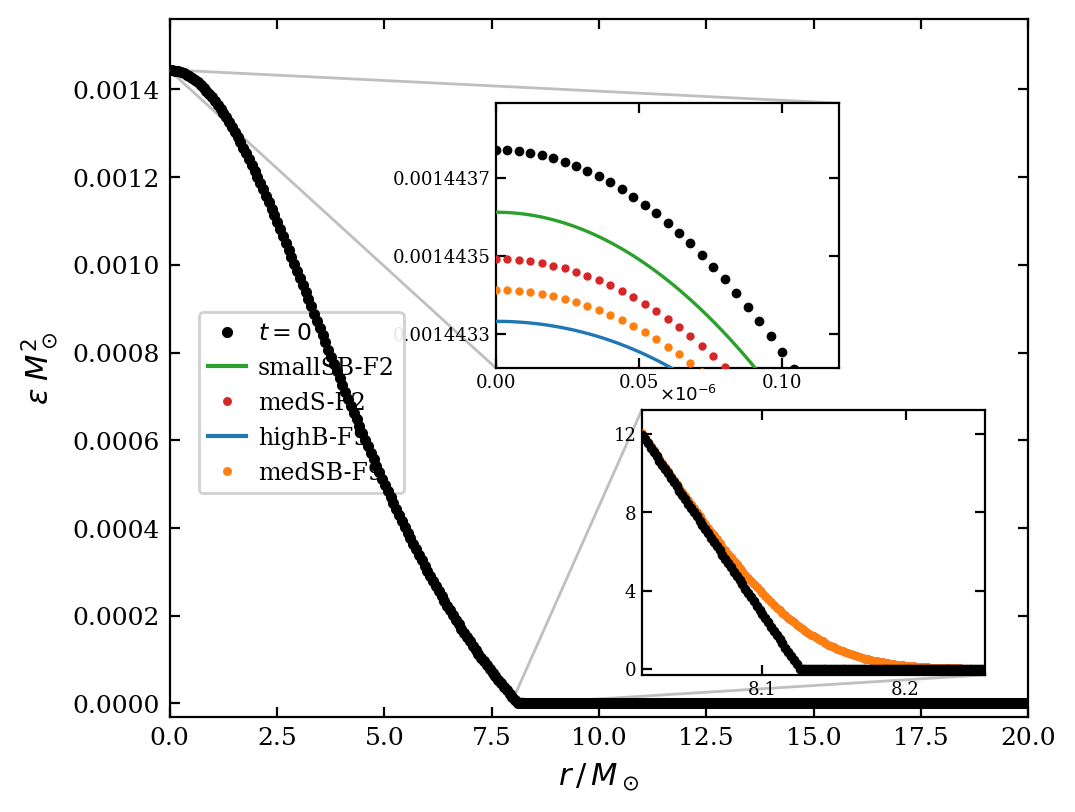
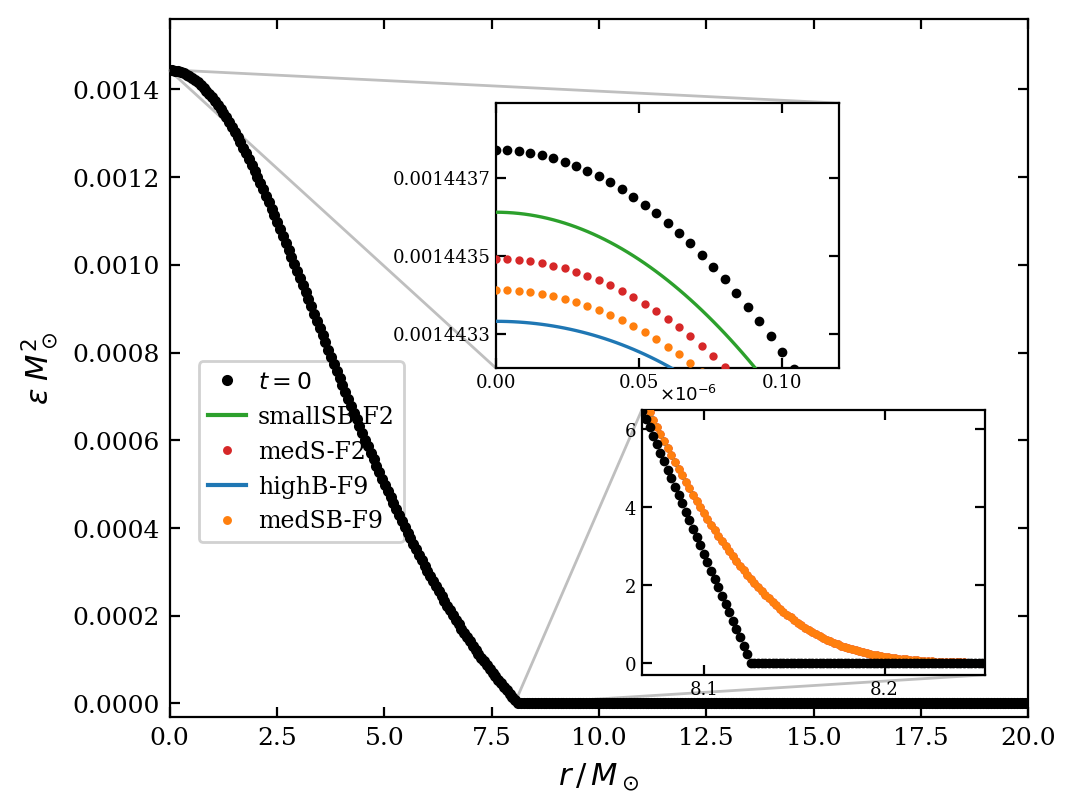
before numerical python

diff --git a/python/fig1_stable_evol_comparing_tau.py b/python/fig1_stable_evol_comparing_tau.py
@@ -50,46 +50,15 @@ def dpde(eps, kappa=KAPPA):
 
 def eps_from_p(p, kappa=KAPPA):
     """
-    Invert EoS analytically for Gamma=2 polytrope.
+    Invert EoS for Gamma=2 polytrope.
 
-    For Gamma=2 polytrope:
-        p = kappa * rho0^2     =>  rho0 = sqrt(p / kappa)
-        epsilon_internal = p / ((Gamma-1)*rho0) = p / rho0
-        But p / rho0 = kappa*rho0^2 / rho0 = kappa*rho0 = p/rho0  (same)
-        epsilon = rho0 + p / rho0 = rho0 + kappa*rho0 = rho0*(1 + kappa*rho0)
-                = rho0 + p  (since p = kappa*rho0^2, p/rho0 = kappa*rho0 != p unless kappa*rho0=1)
+    From p = kappa * rho0^2  =>  rho0 = sqrt(p / kappa).
+    Total energy density:
+        epsilon = rho0 * (1 + e_int),   e_int = p / ((Gamma-1)*rho0) = p/rho0  (Gamma=2)
+               => epsilon = rho0 + rho0*(p/rho0) = rho0 + p
 
-        Correct derivation:
-            epsilon_int = p / ((Gamma-1) * rho0) = p / (1 * rho0)   [Gamma=2]
-            rho0 = sqrt(p/kappa)
-            p / rho0 = p / sqrt(p/kappa) = sqrt(p*kappa) = kappa * rho0
-        So:
-            epsilon = rho0 + kappa*rho0^2/rho0 = rho0 + kappa*rho0 * rho0 / rho0
-                    = rho0 + p / rho0
-
-        Check: for rho0=0.00128, kappa=100:
-            p   = 100 * 0.00128^2 = 1.6384e-4
-            rho0 = 0.00128
-            eps = rho0 + p/rho0 = 0.00128 + 1.6384e-4 / 0.00128
-                = 0.00128 + 0.128 = 0.12928   (wrong! expected 0.00144)
-
-        The confusion is that p/rho0 != p.  Let us re-derive carefully.
-        For Gamma=2:
-            e_int (specific internal energy per unit rest-mass density):
-                e_int = p / ((Gamma-1)*rho0) = p / rho0    [units: M_sun^{-2} / M_sun^{-2} = dimensionless? No.]
-
-        Actually in geometric units:
-            Total energy density:
-                epsilon = rho0 * (1 + e_int)
-                e_int   = p / ((Gamma-1)*rho0) = p / rho0   (Gamma=2)
-            So:
-                epsilon = rho0 + rho0 * e_int = rho0 + p
-            Since p = kappa*rho0^2:
-                rho0 + p = rho0 + kappa*rho0^2 = rho0*(1 + kappa*rho0)
-            For rho0=0.00128, kappa=100:
-                0.00128*(1 + 100*0.00128) = 0.00128*1.128 = 0.001444   CORRECT
-
-        So epsilon = rho0 + p.   rho0 = sqrt(p/kappa).
+    Check: rho0_c=0.00128, kappa=100 => p_c = 1.6384e-4
+           epsilon_c = 0.00128 + 1.6384e-4 = 0.001444  (matches md file value 0.00144)
     """
     rho0 = np.sqrt(np.maximum(p, 0.0) / kappa)
     return rho0 + p
@@ -480,8 +449,9 @@ def main():
     ax.yaxis.get_major_formatter().set_scientific(False)
     ax.yaxis.get_major_formatter().set_useOffset(False)
 
-    # ---- Legend – upper left corner, matching paper position ---------
-    leg = ax.legend(loc='center left', bbox_to_anchor=(0.02, 0.45),
+    # ---- Legend – lower left area, matching paper position ---------
+    # In the paper the legend sits in the middle-left region of the main axes
+    leg = ax.legend(loc='center left', bbox_to_anchor=(0.02, 0.38),
                     framealpha=0.9, handlelength=1.6, handletextpad=0.5,
                     borderpad=0.4)
 
@@ -533,9 +503,11 @@ def main():
 
     # Centre the inset window on the isotropic surface radius
     # In the paper: x-axis shows [8.1, 8.2], y-axis shows [0, ~6e-6]
-    ins2_half = 0.12
-    r_s_lo = R_surf_iso - ins2_half
-    r_s_hi = R_surf_iso + ins2_half
+    # The steep descent region spans about [R_surf_iso - 0.07, R_surf_iso + 0.12]
+    ins2_half_lo = 0.07
+    ins2_half_hi = 0.12
+    r_s_lo = R_surf_iso - ins2_half_lo
+    r_s_hi = R_surf_iso + ins2_half_hi
     mask_s = (r_uni >= r_s_lo) & (r_uni <= r_s_hi)
     r_s = r_uni[mask_s]
 
@@ -554,9 +526,7 @@ def main():
     ax_ins2.set_xlim(r_s_lo, r_s_hi)
     # The surface tail has eps values in the ~0–6e-6 range
     # (smooth smearing of the sharp vacuum boundary by numerical diffusion)
-    eps_surf_max = max(eps_init[mask_s].max(),
-                       max(v[mask_s].max() for v in late_profiles.values()))
-    ax_ins2.set_ylim(-0.3e-6, max(eps_surf_max * 1.1, 6.0e-6))
+    ax_ins2.set_ylim(-0.3e-6, 6.5e-6)
 
     # y-axis in units of 1e-6 with a multiplier label, like the paper
     ax_ins2.yaxis.set_major_formatter(
